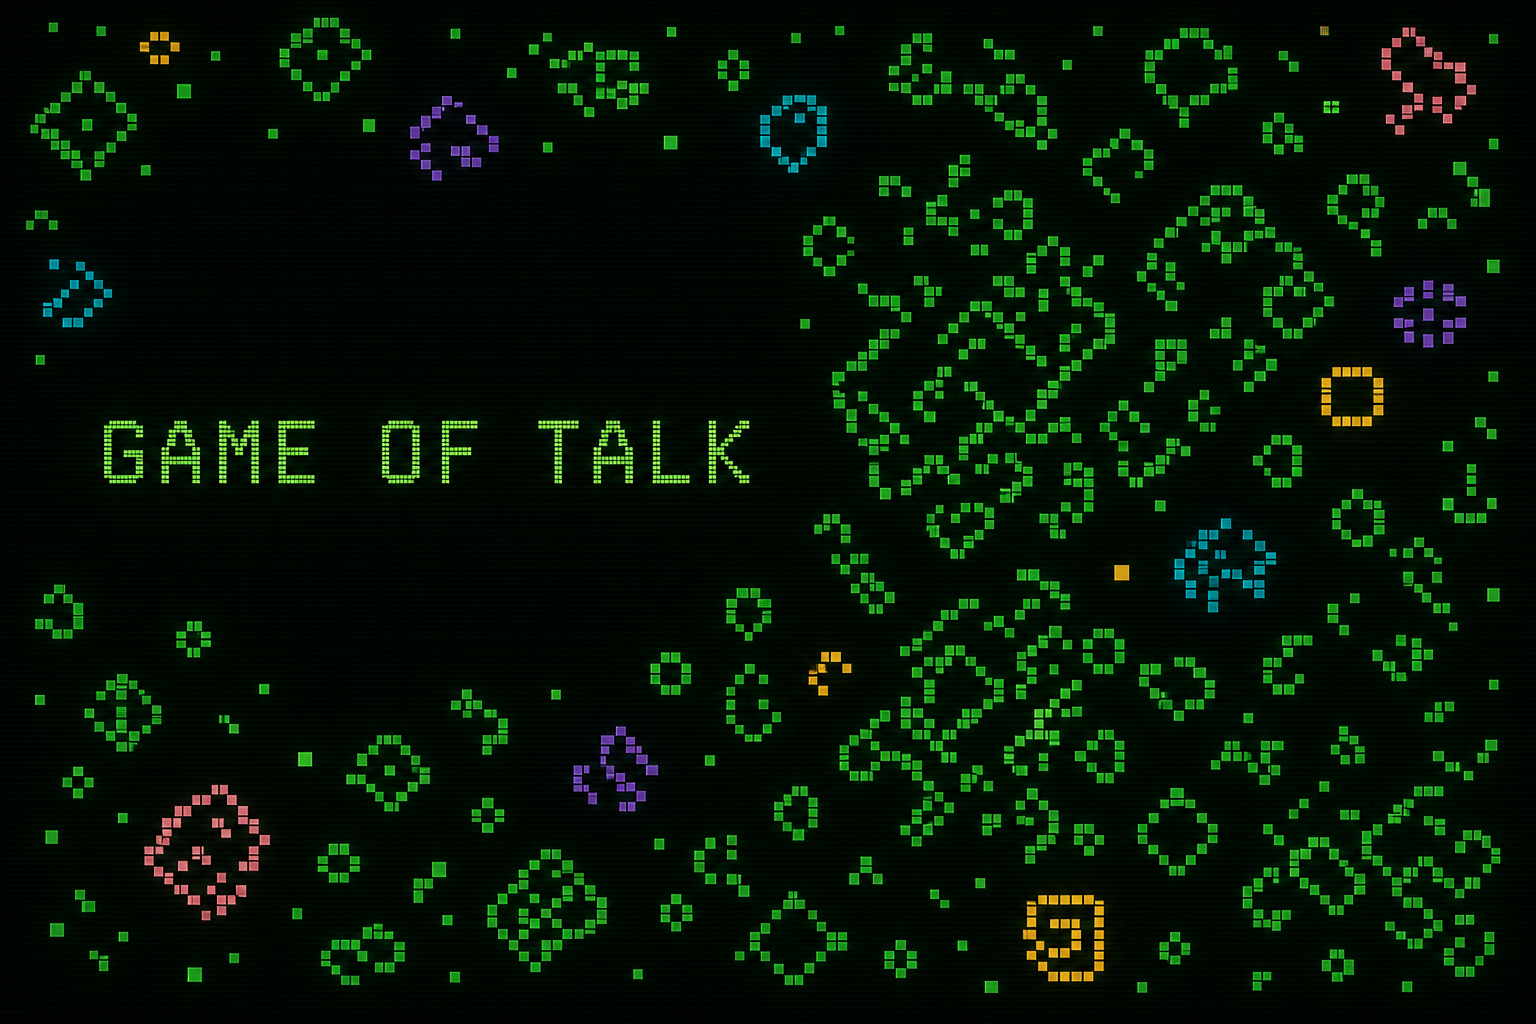
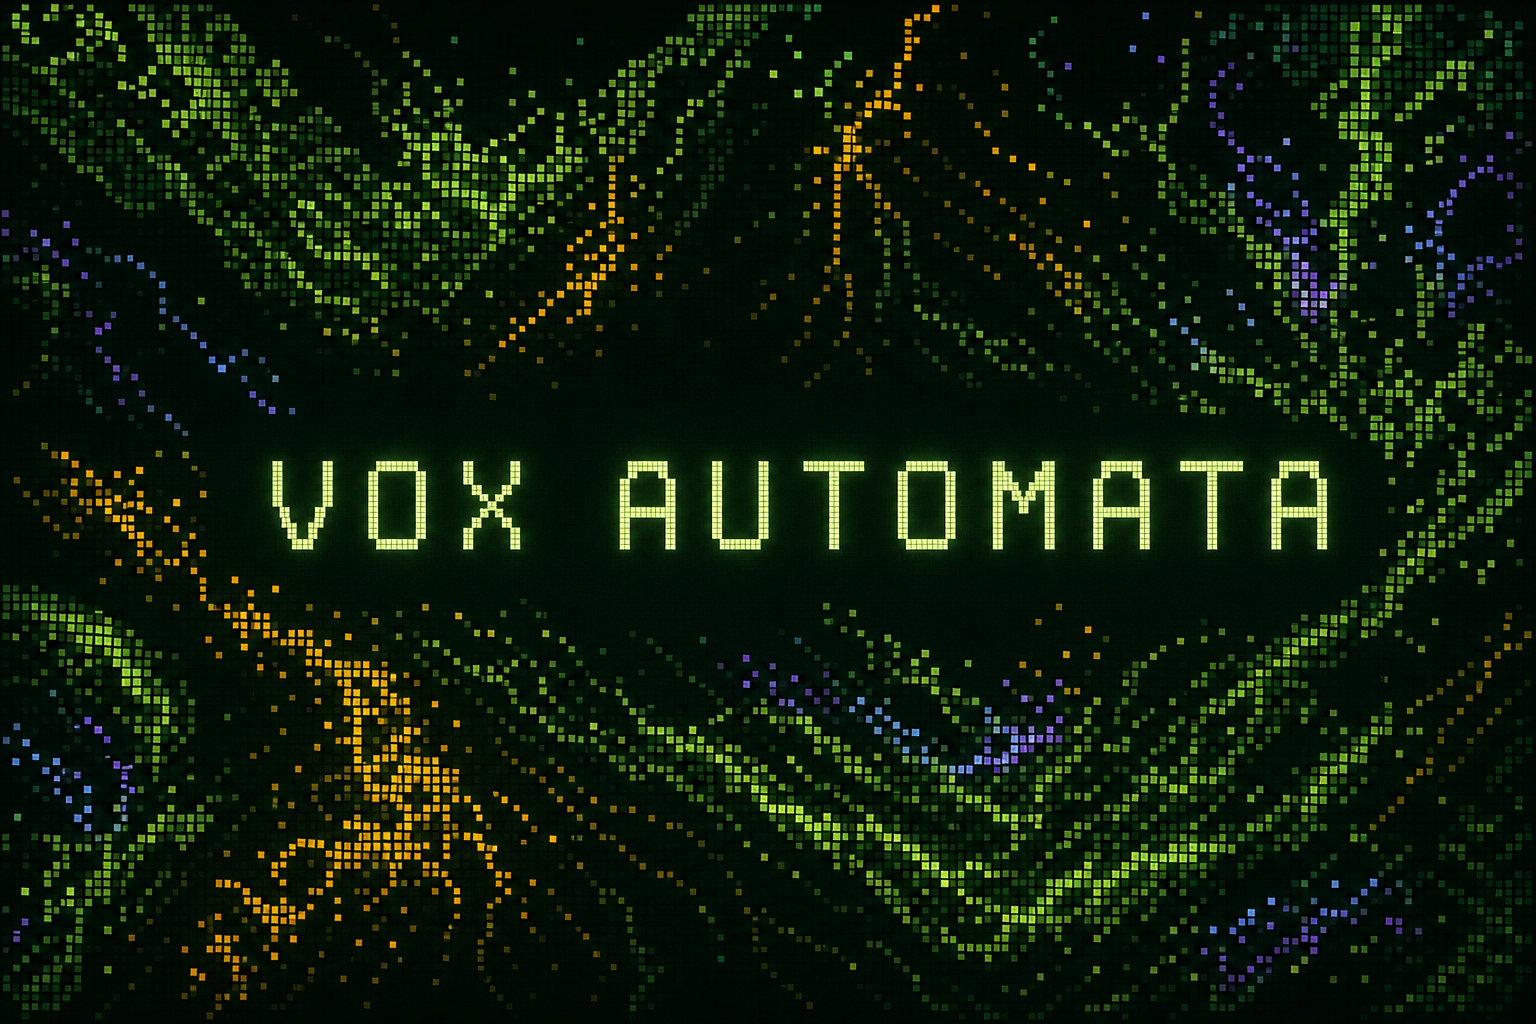
Rename project to Vox Automata

diff --git a/app/talk-visualizer.tsx b/app/talk-visualizer.tsx
@@ -694,7 +694,7 @@ export function TalkVisualizer() {
     context.fillStyle = paletteColors.life;
     context.font = "18px monospace";
     context.fillText(
-      `GAME OF TALK  /  ${formatTime(elapsedRef.current)}  /  ${fossils.length} BLOCKS`,
+      `VOX AUTOMATA  /  ${formatTime(elapsedRef.current)}  /  ${fossils.length} BLOCKS`,
       gutter,
       38,
     );
@@ -718,7 +718,7 @@ export function TalkVisualizer() {
     });
     context.globalAlpha = 1;
     const link = document.createElement("a");
-    link.download = "game-of-talk-mosaic.png";
+    link.download = "vox-automata-mosaic.png";
     link.href = canvas.toDataURL("image/png");
     link.click();
   }, [fossils, mosaicLayout, paletteColors]);
@@ -1011,15 +1011,15 @@ export function TalkVisualizer() {
       {phase === "setup" && (
         <section className="setup-panel" aria-labelledby="setup-title">
           <div className="wordmark" aria-hidden="true">
-            <span>G</span>
+            <span>V</span>
             <span>O</span>
-            <span>T</span>
+            <span>X</span>
           </div>
-          <p className="eyebrow">A speaking instrument</p>
-          <h1 id="setup-title">Game of Talk</h1>
+          <h1 id="setup-title">Vox Automata</h1>
           <p className="setup-intro">
-            Your voice becomes climate inside a living field. Nothing is
-            transcribed, recorded, or sent anywhere.
+            Your words affect the local environment, growing a representation
+            of your talk. All local. Nothing is transcribed, recorded, or sent
+            anywhere.
           </p>
 
           <fieldset>

diff --git a/app/layout.tsx b/app/layout.tsx
@@ -3,28 +3,28 @@ import "./globals.css";
 
 export const metadata: Metadata = {
   metadataBase: new URL("https://game-of-talk.jessh.chatgpt.site"),
-  title: "Game of Talk",
+  title: "Vox Automata",
   description:
-    "A private, microphone-driven cellular visualizer for talks. Your voice becomes climate, never content.",
+    "A private, speech-responsive cellular visualizer for talks. Everything stays on your device.",
   openGraph: {
-    title: "Game of Talk",
+    title: "Vox Automata",
     description:
-      "Your voice becomes climate inside a living cellular field, never content.",
+      "Your words shape a local cellular environment. Nothing is transcribed, recorded, or sent anywhere.",
     type: "website",
     images: [
       {
         url: "/og.png",
         width: 1536,
         height: 1024,
-        alt: "Game of Talk cellular field",
+        alt: "Vox Automata cellular field",
       },
     ],
   },
   twitter: {
     card: "summary_large_image",
-    title: "Game of Talk",
+    title: "Vox Automata",
     description:
-      "Your voice becomes climate inside a living cellular field, never content.",
+      "Your words shape a local cellular environment. Nothing is transcribed, recorded, or sent anywhere.",
     images: ["/og.png"],
   },
   icons: {

diff --git a/PRODUCT.md b/PRODUCT.md
@@ -10,7 +10,11 @@ Speakers running 20 to 30 minute talks from a laptop in rooms with unpredictable
 
 ## Product Purpose
 
-Game of Talk turns local microphone energy into an abstract, evolving cellular world. It never transcribes, records, uploads, or illustrates the speaker's words. Voice qualities act as environmental forces on a Life-inspired field. Every minute leaves behind a fossil block, and the completed talk becomes a mosaic of those moments.
+Vox Automata turns local microphone energy into an abstract, evolving cellular
+world. It never transcribes, records, uploads, or illustrates the speaker's
+words. Voice qualities act as environmental forces on a Life-inspired field.
+Every minute leaves behind a fossil block, and the completed talk becomes a
+mosaic of those moments.
 
 ## Brand Personality
 

diff --git a/tasks/todo.md b/tasks/todo.md
@@ -1,4 +1,4 @@
-# Game of Talk
+# Vox Automata
 
 ## Plan
 
@@ -40,3 +40,12 @@
 - [x] Update visual-system documentation and rendered-page coverage
 - [x] Verify build, tests, types, and lint
 - [x] Commit, push, and publish the update
+
+## Vox Automata rename
+
+- [x] Rename the interface, metadata, exports, and documentation
+- [x] Remove the setup eyebrow
+- [x] Install the revised local-processing introduction
+- [x] Replace the social preview with Vox Automata artwork
+- [x] Update rendered-page coverage
+- [x] Verify build, tests, types, and lint

diff --git a/README.md b/README.md
@@ -1,6 +1,6 @@
-# Game of Talk
+# Vox Automata
 
-Game of Talk is a private, microphone-driven cellular visualizer for live
+Vox Automata is a private, microphone-driven cellular visualizer for live
 presentations. It turns the energy, brightness, texture, and cadence of a
 speaker's voice into environmental forces inside a Life-inspired field.
 

diff --git a/DESIGN.md b/DESIGN.md
@@ -1,4 +1,4 @@
-# Game of Talk Design System
+# Vox Automata Design System
 
 ## Physical Scene
 
